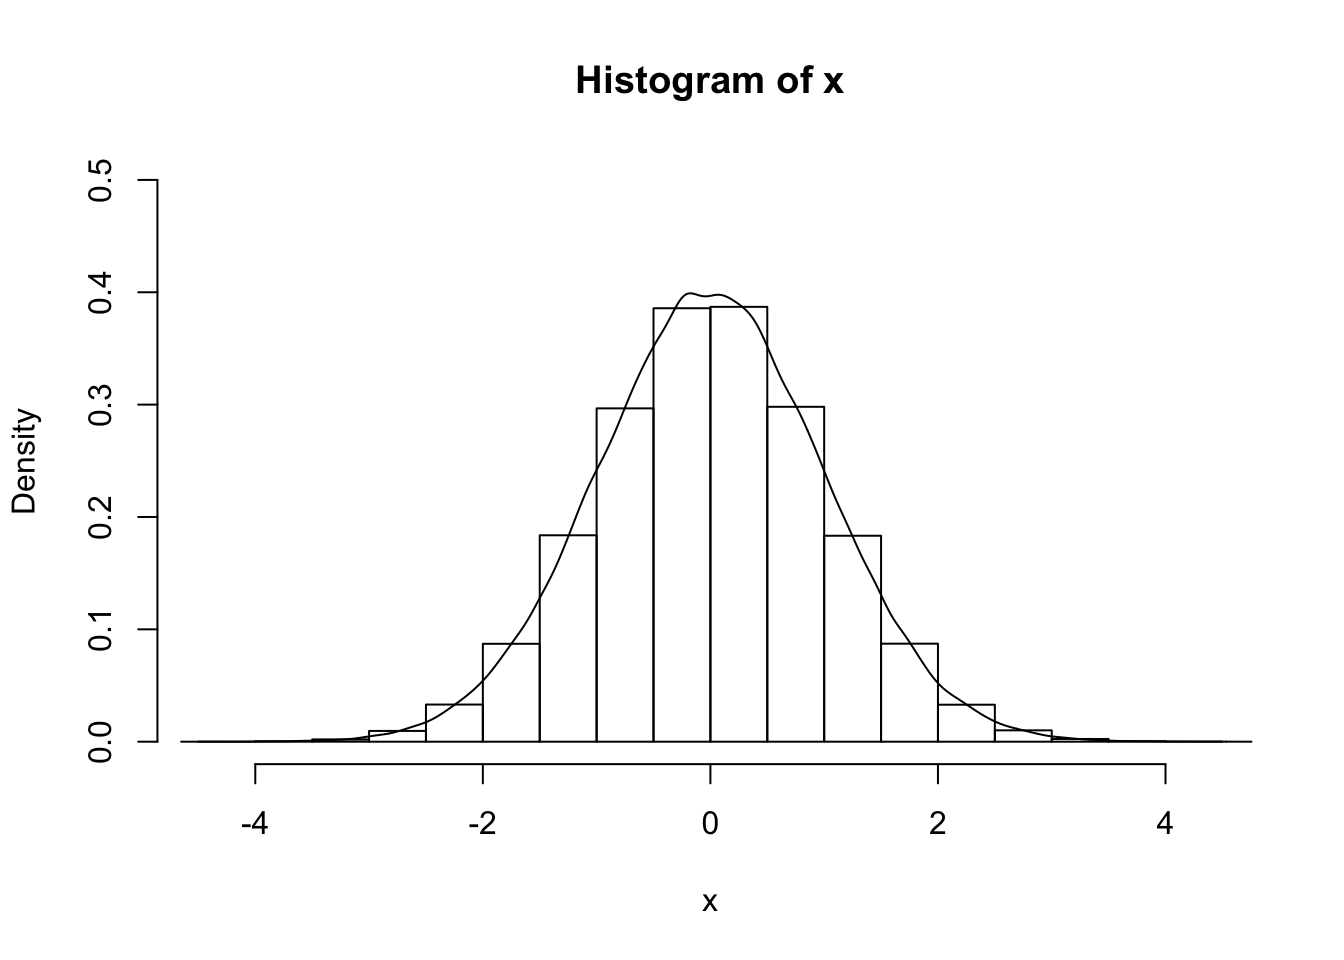
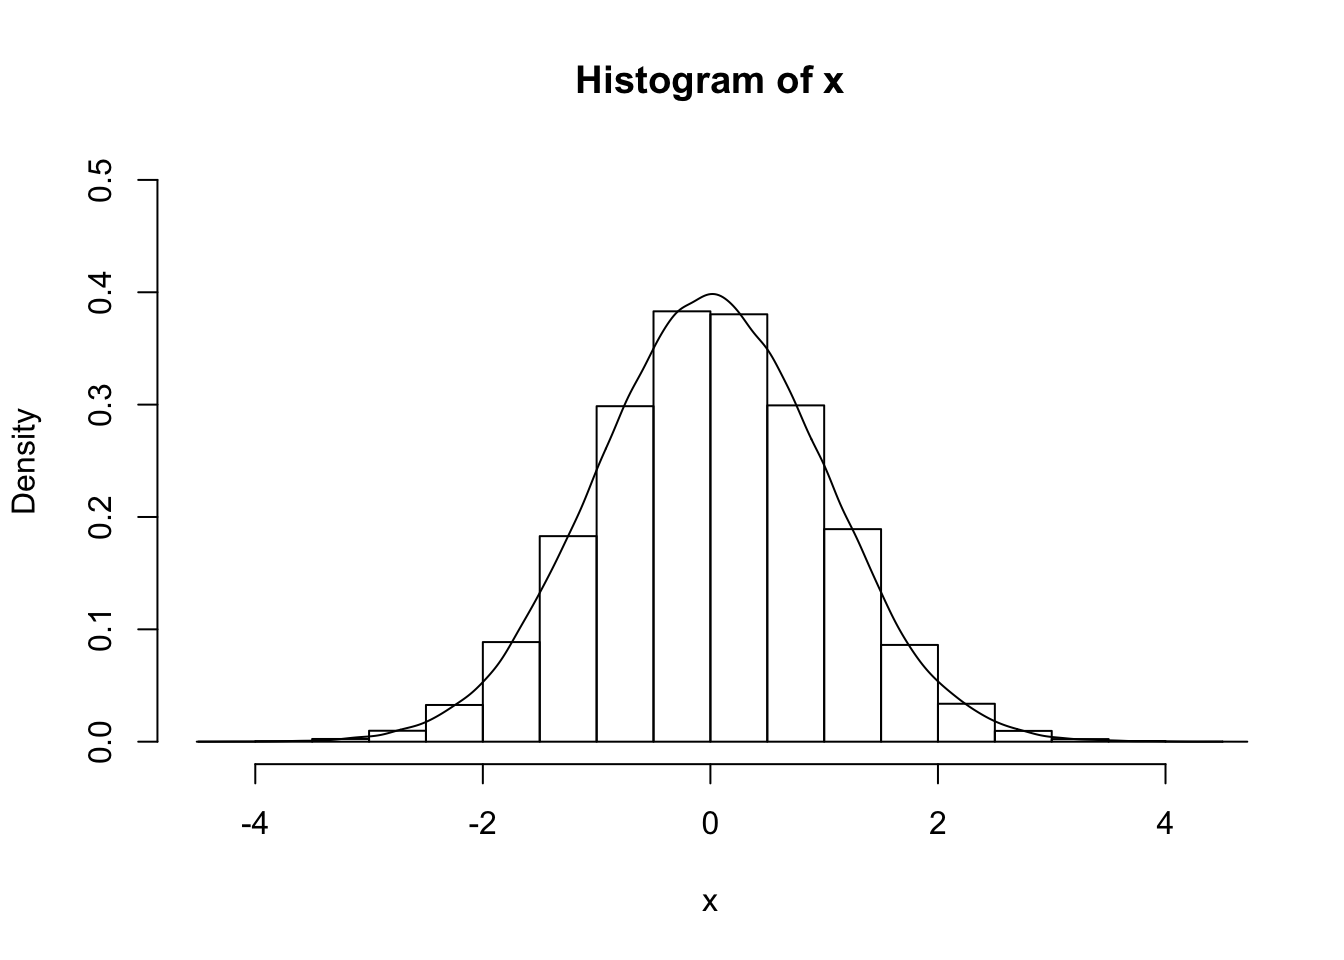
if lubridate not installed

diff --git a/Tutorial2.html b/Tutorial2.html
@@ -210,8 +210,6 @@ $(document).ready(function () {
 <li><code>plot()</code></li>
 <li><code>points()</code></li>
 <li><code>lines()</code></li>
-<li><code>test()</code></li>
-<li><code>mtest()</code></li>
 <li><code>abline()</code></li>
 </ul>
 <pre class="r"><code>x&lt;- 1:5
@@ -408,8 +406,8 @@ qnorm(.975, 0, 1)
 pnorm(1.96, 0, 1)
 #&gt; [1] 0.9750021
 rnorm(10, 0, 1)
-#&gt;  [1]  0.5633519 -0.2512251  1.9002571 -0.6078331  1.2872705  0.5948612
-#&gt;  [7]  0.9228182  0.6400052 -0.9342117 -0.6751286
+#&gt;  [1]  0.4076591 -0.8662482 -0.2374863 -0.2415346  0.2070424  0.1217405
+#&gt;  [7]  0.5219544 -0.2951048  0.8023950  0.1977374
 
 x&lt;- rnorm(100000, 0, 1)
 hist(x, freq = F, ylim = c(0, .5))
@@ -424,8 +422,8 @@ qbeta(.975, 1, 2)
 pbeta(0.5, 1, 2)
 #&gt; [1] 0.75
 rbeta(10, 1, 2)
-#&gt;  [1] 0.05442581 0.23803062 0.39772764 0.44404760 0.41493048 0.35226584
-#&gt;  [7] 0.11320417 0.27662186 0.45908530 0.53314753</code></pre>
+#&gt;  [1] 0.09315643 0.22011448 0.15078409 0.25145589 0.22646424 0.18370400
+#&gt;  [7] 0.75911940 0.73958023 0.11713646 0.07994158</code></pre>
 <p>E.g. Gamma distribution</p>
 <pre class="r"><code>dgamma(10, 5)
 #&gt; [1] 0.01891664
@@ -434,8 +432,8 @@ qgamma(.5, 5)
 pgamma(10, 5)
 #&gt; [1] 0.9707473
 rgamma(10, 5)
-#&gt;  [1]  3.500374  2.125421  2.837002  6.347048  5.679006  5.352800  3.307742
-#&gt;  [8]  2.513800 12.127650  5.376675</code></pre>
+#&gt;  [1] 2.384690 3.025892 4.875101 3.089341 2.333672 2.552008 6.463179
+#&gt;  [8] 4.159180 3.951135 4.171589</code></pre>
 <p>Other commonly used distributions</p>
 <ul>
 <li>Uniform (<code>dunif</code>, <code>qunif</code>, <code>punif</code>, <code>runif</code>)</li>
@@ -575,11 +573,14 @@ test_dat&lt;- iris[test_ind,]
 
 nn_model&lt;- nnet(Species ~., linout = T, size = 5, data = train_dat)
 #&gt; # weights:  43
-#&gt; initial  value 138.593236 
-#&gt; iter  10 value 57.519946
-#&gt; iter  20 value 55.428782
-#&gt; iter  30 value 55.426774
-#&gt; final  value 55.426772 
+#&gt; initial  value 147.590354 
+#&gt; iter  10 value 44.084597
+#&gt; iter  20 value 5.828086
+#&gt; iter  30 value 4.798956
+#&gt; iter  40 value 4.749709
+#&gt; iter  50 value 4.749515
+#&gt; iter  60 value 4.749490
+#&gt; final  value 4.749490 
 #&gt; converged
 
 pred_nn&lt;- predict(nn_model, test_dat, type = &#39;class&#39;)
@@ -587,8 +588,8 @@ pred_nn&lt;- predict(nn_model, test_dat, type = &#39;class&#39;)
 ## Accuracy
 table(test_dat$Species == pred_nn) / nrow(test_dat)
 #&gt; 
-#&gt;     FALSE      TRUE 
-#&gt; 0.3666667 0.6333333</code></pre>
+#&gt;      FALSE       TRUE 
+#&gt; 0.06666667 0.93333333</code></pre>
 <p>Example: Decision Tree</p>
 <pre class="r"><code>library(rpart)
 
@@ -599,8 +600,8 @@ pred_cart&lt;- predict(cart_model, test_dat, type = &#39;class&#39;)
 ## Accuracy
 table(test_dat$Species == pred_cart) / nrow(test_dat)
 #&gt; 
-#&gt; TRUE 
-#&gt;    1</code></pre>
+#&gt;      FALSE       TRUE 
+#&gt; 0.03333333 0.96666667</code></pre>
 <p>Use <code>install.packages()</code> to install package.</p>
 <p>Example: Use t-SNE for dimensionality reduction, visualizing breast cancer data.</p>
 <pre class="r"><code>library(tsne)
@@ -610,16 +611,16 @@ exp_dat&lt;- read.table(url, sep = &quot;,&quot;, header = F)
 
 tsne_res&lt;- tsne(exp_dat[, 3:32], perplexity = 100)
 #&gt; sigma summary: Min. : 0.38658523478823 |1st Qu. : 0.61806546548001 |Median : 0.648107496657062 |Mean : 0.651623332613159 |3rd Qu. : 0.67963590493686 |Max. : 1.05004711205922 |
-#&gt; Epoch: Iteration #100 error is: 14.9816191953327
-#&gt; Epoch: Iteration #200 error is: 1.036168451594
-#&gt; Epoch: Iteration #300 error is: 1.03020057333028
-#&gt; Epoch: Iteration #400 error is: 1.03015310067872
-#&gt; Epoch: Iteration #500 error is: 1.03015310065236
-#&gt; Epoch: Iteration #600 error is: 1.03015310065236
-#&gt; Epoch: Iteration #700 error is: 1.03015310065236
-#&gt; Epoch: Iteration #800 error is: 1.03015310065236
-#&gt; Epoch: Iteration #900 error is: 1.03015310065236
-#&gt; Epoch: Iteration #1000 error is: 1.03015310065236
+#&gt; Epoch: Iteration #100 error is: 15.7490296175581
+#&gt; Epoch: Iteration #200 error is: 1.03353038440415
+#&gt; Epoch: Iteration #300 error is: 1.01806317533248
+#&gt; Epoch: Iteration #400 error is: 1.01456424704976
+#&gt; Epoch: Iteration #500 error is: 1.012075001212
+#&gt; Epoch: Iteration #600 error is: 1.01200560307017
+#&gt; Epoch: Iteration #700 error is: 1.01200560279918
+#&gt; Epoch: Iteration #800 error is: 1.01200560279918
+#&gt; Epoch: Iteration #900 error is: 1.01200560279918
+#&gt; Epoch: Iteration #1000 error is: 1.01200560279918
 
 plot(tsne_res[which(exp_dat$V2 == &quot;B&quot;), ], col = 1, pch = 20, xlim = c(-6, 6), ylim = c(-6, 6), xlab = &quot;&quot;, ylab = &quot;&quot;)
 points(tsne_res[which(exp_dat$V2 == &quot;M&quot;), ], col = 2, pch = 20)</code></pre>
